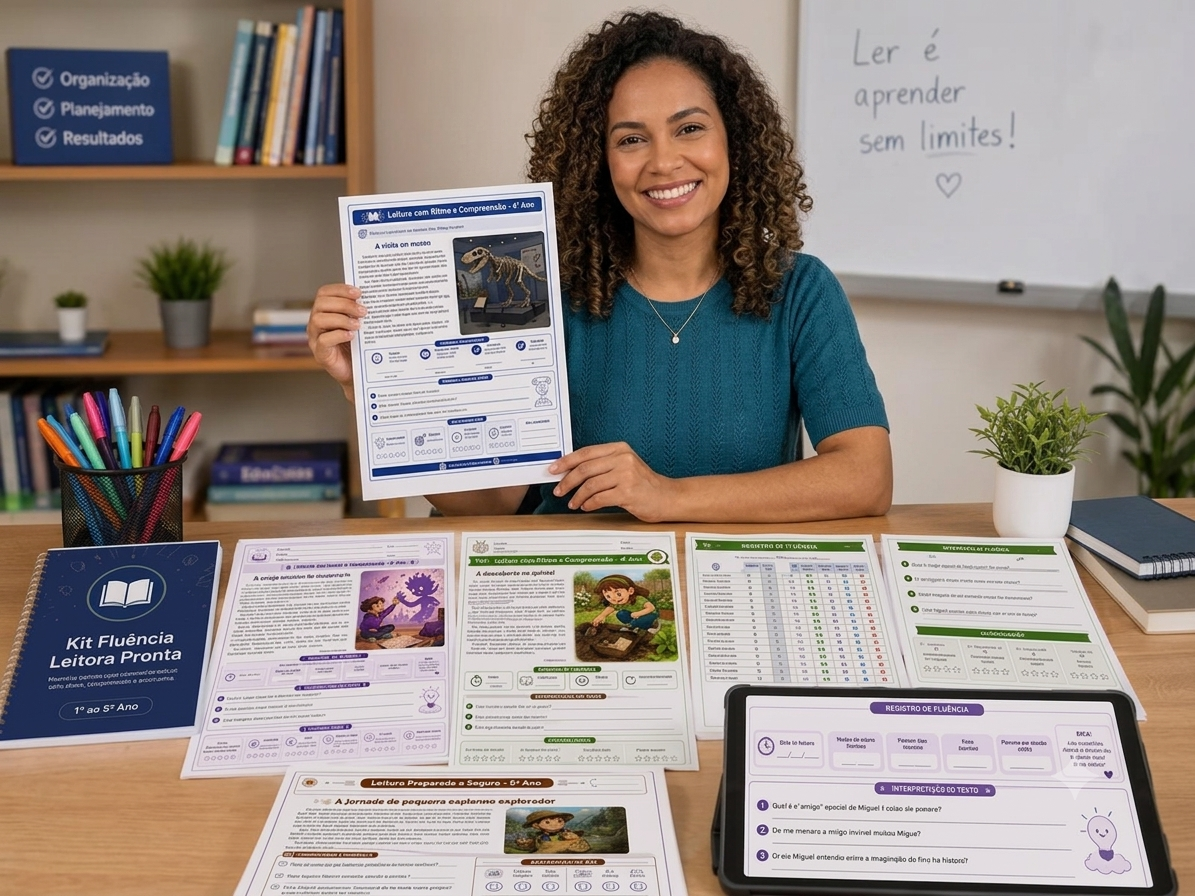
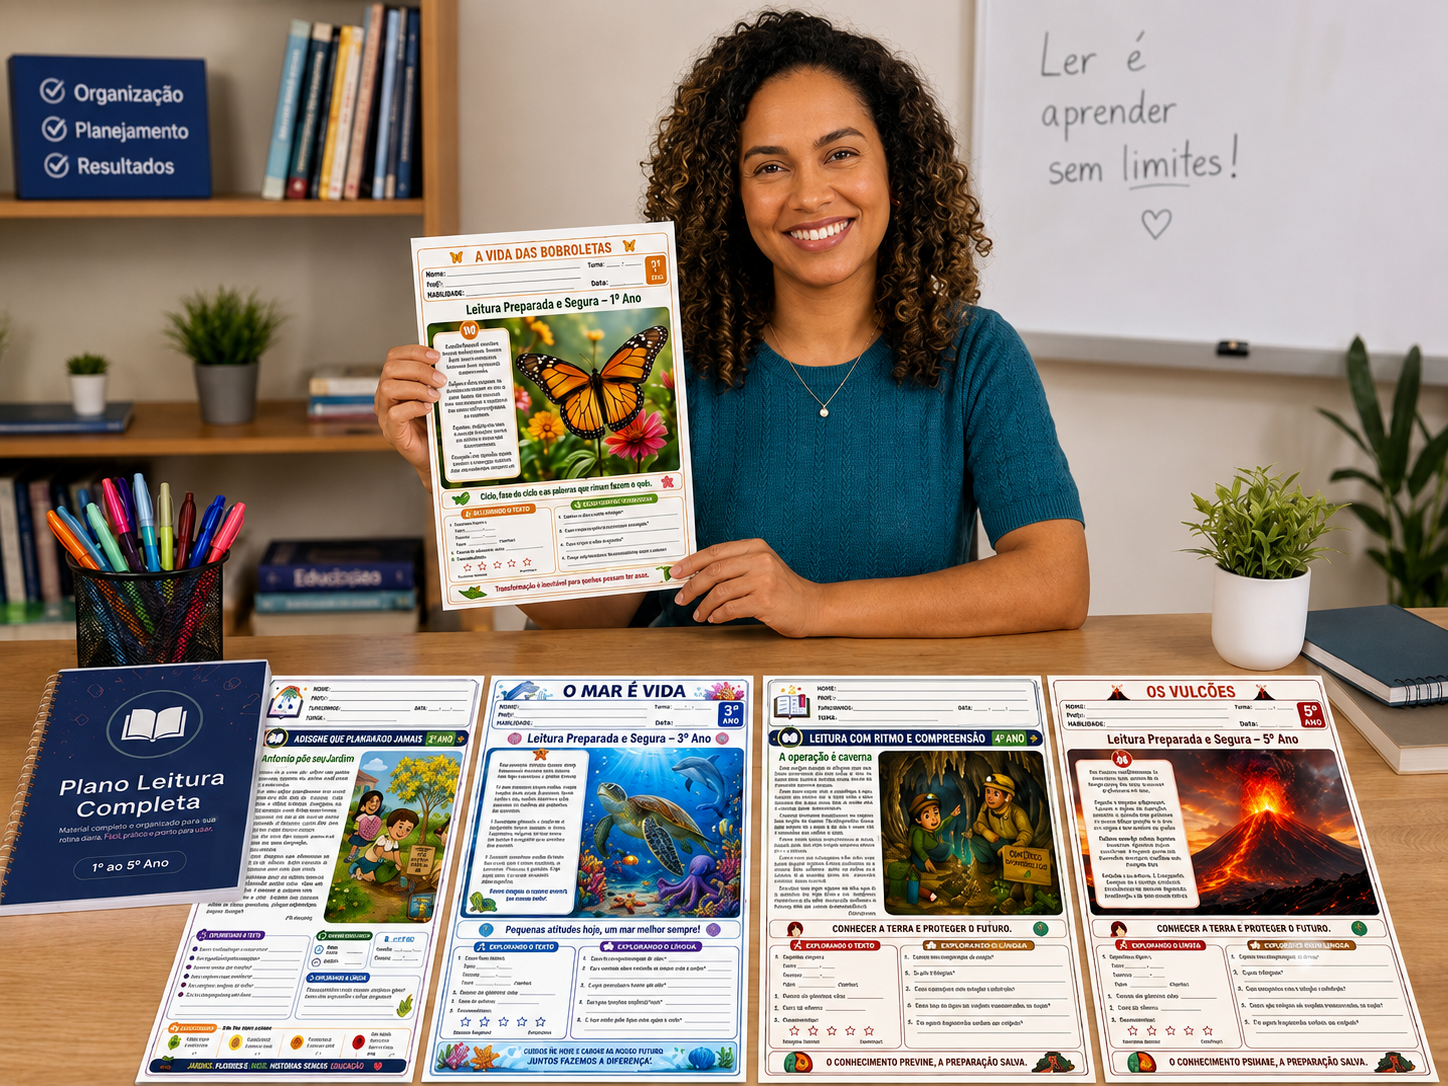
Atualiza secao de problema, combina Antes/Depois com nova secao de realidade da sala de aula, e atualiza imagem do hero

diff --git a/index.html b/index.html
@@ -91,24 +91,24 @@
   <!-- PROBLEM SECTION -->
   <section class="section-light">
     <div class="container">
-      <h2 class="section-title">Mais do que ler, seus alunos precisam compreender.</h2>
-      <p class="section-subtitle">Muitos alunos leem, mas têm dificuldade para explicar o que entenderam e acompanhar essa evolução nem sempre é simples.</p>
+      <h2 class="section-title">Nem todos os alunos evoluem no mesmo ritmo. E lidar com isso sozinho é um grande desafio.</h2>
+      <p class="section-subtitle">Enquanto alguns já leem com facilidade, outros ainda apresentam dificuldades na leitura e na compreensão. Ter um material organizado faz toda a diferença.</p>
 
       <div class="cards-3">
         <div class="problem-card">
-          <div class="icon">🤔</div>
-          <h3>Lê, mas não explica</h3>
-          <p>Reconhece as palavras, mas não consegue contar o que entendeu.</p>
+          <div class="icon">📉</div>
+          <h3>Alguns alunos simplesmente não avançam.</h3>
+          <p>Você tenta diferentes atividades, mas eles continuam com dificuldades na leitura e compreensão.</p>
+        </div>
+        <div class="problem-card">
+          <div class="icon">👥</div>
+          <h3>É difícil atender todos ao mesmo tempo.</h3>
+          <p>Enquanto você ajuda um aluno, outros também precisam de atenção.</p>
         </div>
         <div class="problem-card">
           <div class="icon">⏳</div>
-          <h3>Lê devagar e trava</h3>
-          <p>A leitura fica sem ritmo, insegura e cansativa.</p>
-        </div>
-        <div class="problem-card">
-          <div class="icon">💻</div>
-          <h3>Você monta tudo do zero</h3>
-          <p>Procura texto, cria pergunta, pensa na ficha e ainda tenta acompanhar a turma.</p>
+          <h3>Falta tempo para preparar intervenções.</h3>
+          <p>Criar atividades específicas para diferentes níveis exige horas que quase nenhum professor tem.</p>
         </div>
       </div>
     </div>
@@ -135,24 +135,47 @@
   <!-- BEFORE / AFTER -->
   <section class="section-gray">
     <div class="container">
-      <h2 class="section-title">Veja a diferença que um material pronto faz</h2>
+      <h2 class="section-title">Sabemos como é a realidade da sala de aula.</h2>
+
+      <div class="reality-grid">
+        <div class="problem-card">
+          <div class="icon">🧒</div>
+          <h3>Nem todos os alunos evoluem no mesmo ritmo.</h3>
+          <p>Sempre existe aquele grupo que precisa de uma atenção maior.</p>
+        </div>
+        <div class="problem-card">
+          <div class="icon">⏳</div>
+          <h3>O tempo nunca é suficiente.</h3>
+          <p>Entre planejamento, correções e reuniões, fica difícil preparar intervenções para todos.</p>
+        </div>
+        <div class="problem-card">
+          <div class="icon">📊</div>
+          <h3>Acompanhar cada aluno é um desafio.</h3>
+          <p>Sem registros organizados, fica difícil saber quem realmente está evoluindo.</p>
+        </div>
+        <div class="problem-card">
+          <div class="icon">❤</div>
+          <h3>Você faz o possível todos os dias.</h3>
+          <p>Mas não precisa enfrentar esse desafio sozinho.</p>
+        </div>
+      </div>
 
       <div class="ba-wrap">
         <div class="ba-card before">
-          <div class="ba-title">❌ ANTES</div>
+          <div class="ba-title">ANTES</div>
           <ul>
-            <li><span class="mark">✕</span> Perdendo tempo criando atividades</li>
-            <li><span class="mark">✕</span> Procurando textos em vários lugares</li>
-            <li><span class="mark">✕</span> Montando perguntas do zero</li>
-            <li><span class="mark">✕</span> Dificuldade para acompanhar os alunos</li>
+            <li><span class="mark">✕</span> Alunos sem evolução</li>
+            <li><span class="mark">✕</span> Dificuldade para atender diferentes níveis</li>
+            <li><span class="mark">✕</span> Horas criando atividades do zero</li>
+            <li><span class="mark">✕</span> Sem um acompanhamento organizado</li>
           </ul>
         </div>
         <div class="ba-card after">
-          <div class="ba-title">✅ DEPOIS</div>
+          <div class="ba-title">DEPOIS</div>
           <ul>
-            <li><span class="mark">✓</span> Materiais prontos para aplicar</li>
-            <li><span class="mark">✓</span> Leitura e compreensão no mesmo material</li>
-            <li><span class="mark">✓</span> Registros organizados</li>
+            <li><span class="mark">✓</span> Atividades prontas para cada etapa</li>
+            <li><span class="mark">✓</span> Mais organização na rotina</li>
+            <li><span class="mark">✓</span> Evolução mais fácil de acompanhar</li>
             <li><span class="mark">✓</span> Mais tempo para ensinar</li>
           </ul>
         </div>

diff --git a/css/style.css b/css/style.css
@@ -610,6 +610,13 @@
   }
 
   /* ---------- BEFORE / AFTER ---------- */
+  .reality-grid{
+    display:grid;
+    grid-template-columns:1fr;
+    gap:18px;
+    margin-bottom:36px;
+  }
+
   .ba-wrap{
     display:flex;
     flex-direction:column;
@@ -860,6 +867,10 @@
 
     .cards-3, .steps-3{
       grid-template-columns:repeat(3,1fr);
+    }
+
+    .reality-grid{
+      grid-template-columns:repeat(2,1fr);
     }
 
     .bonus-grid{
